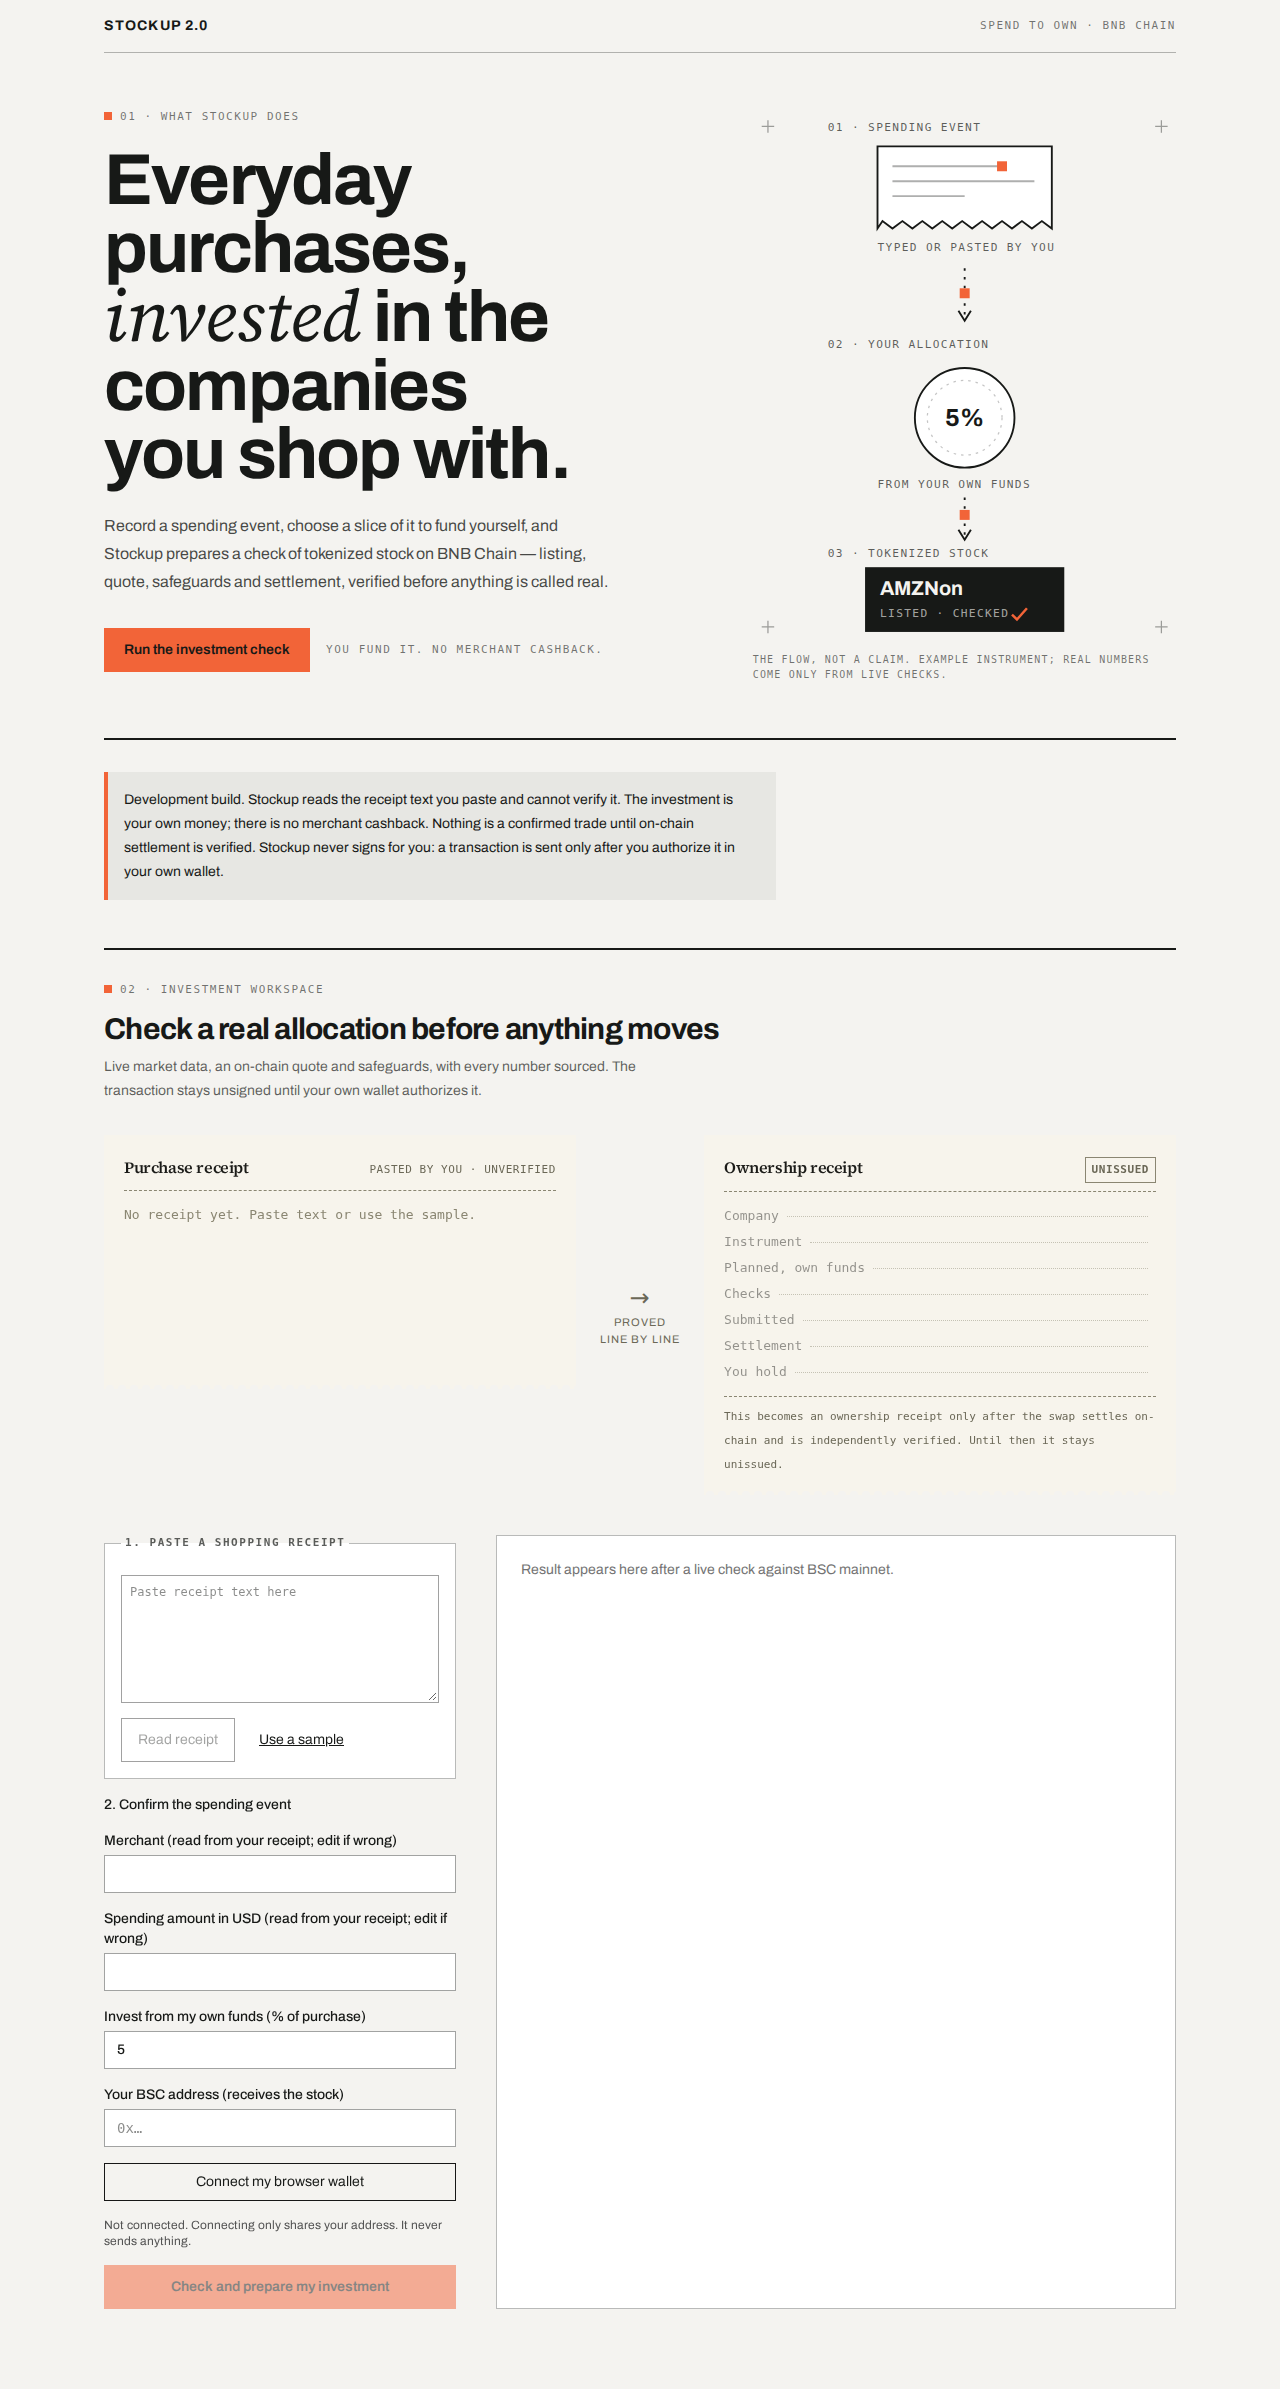
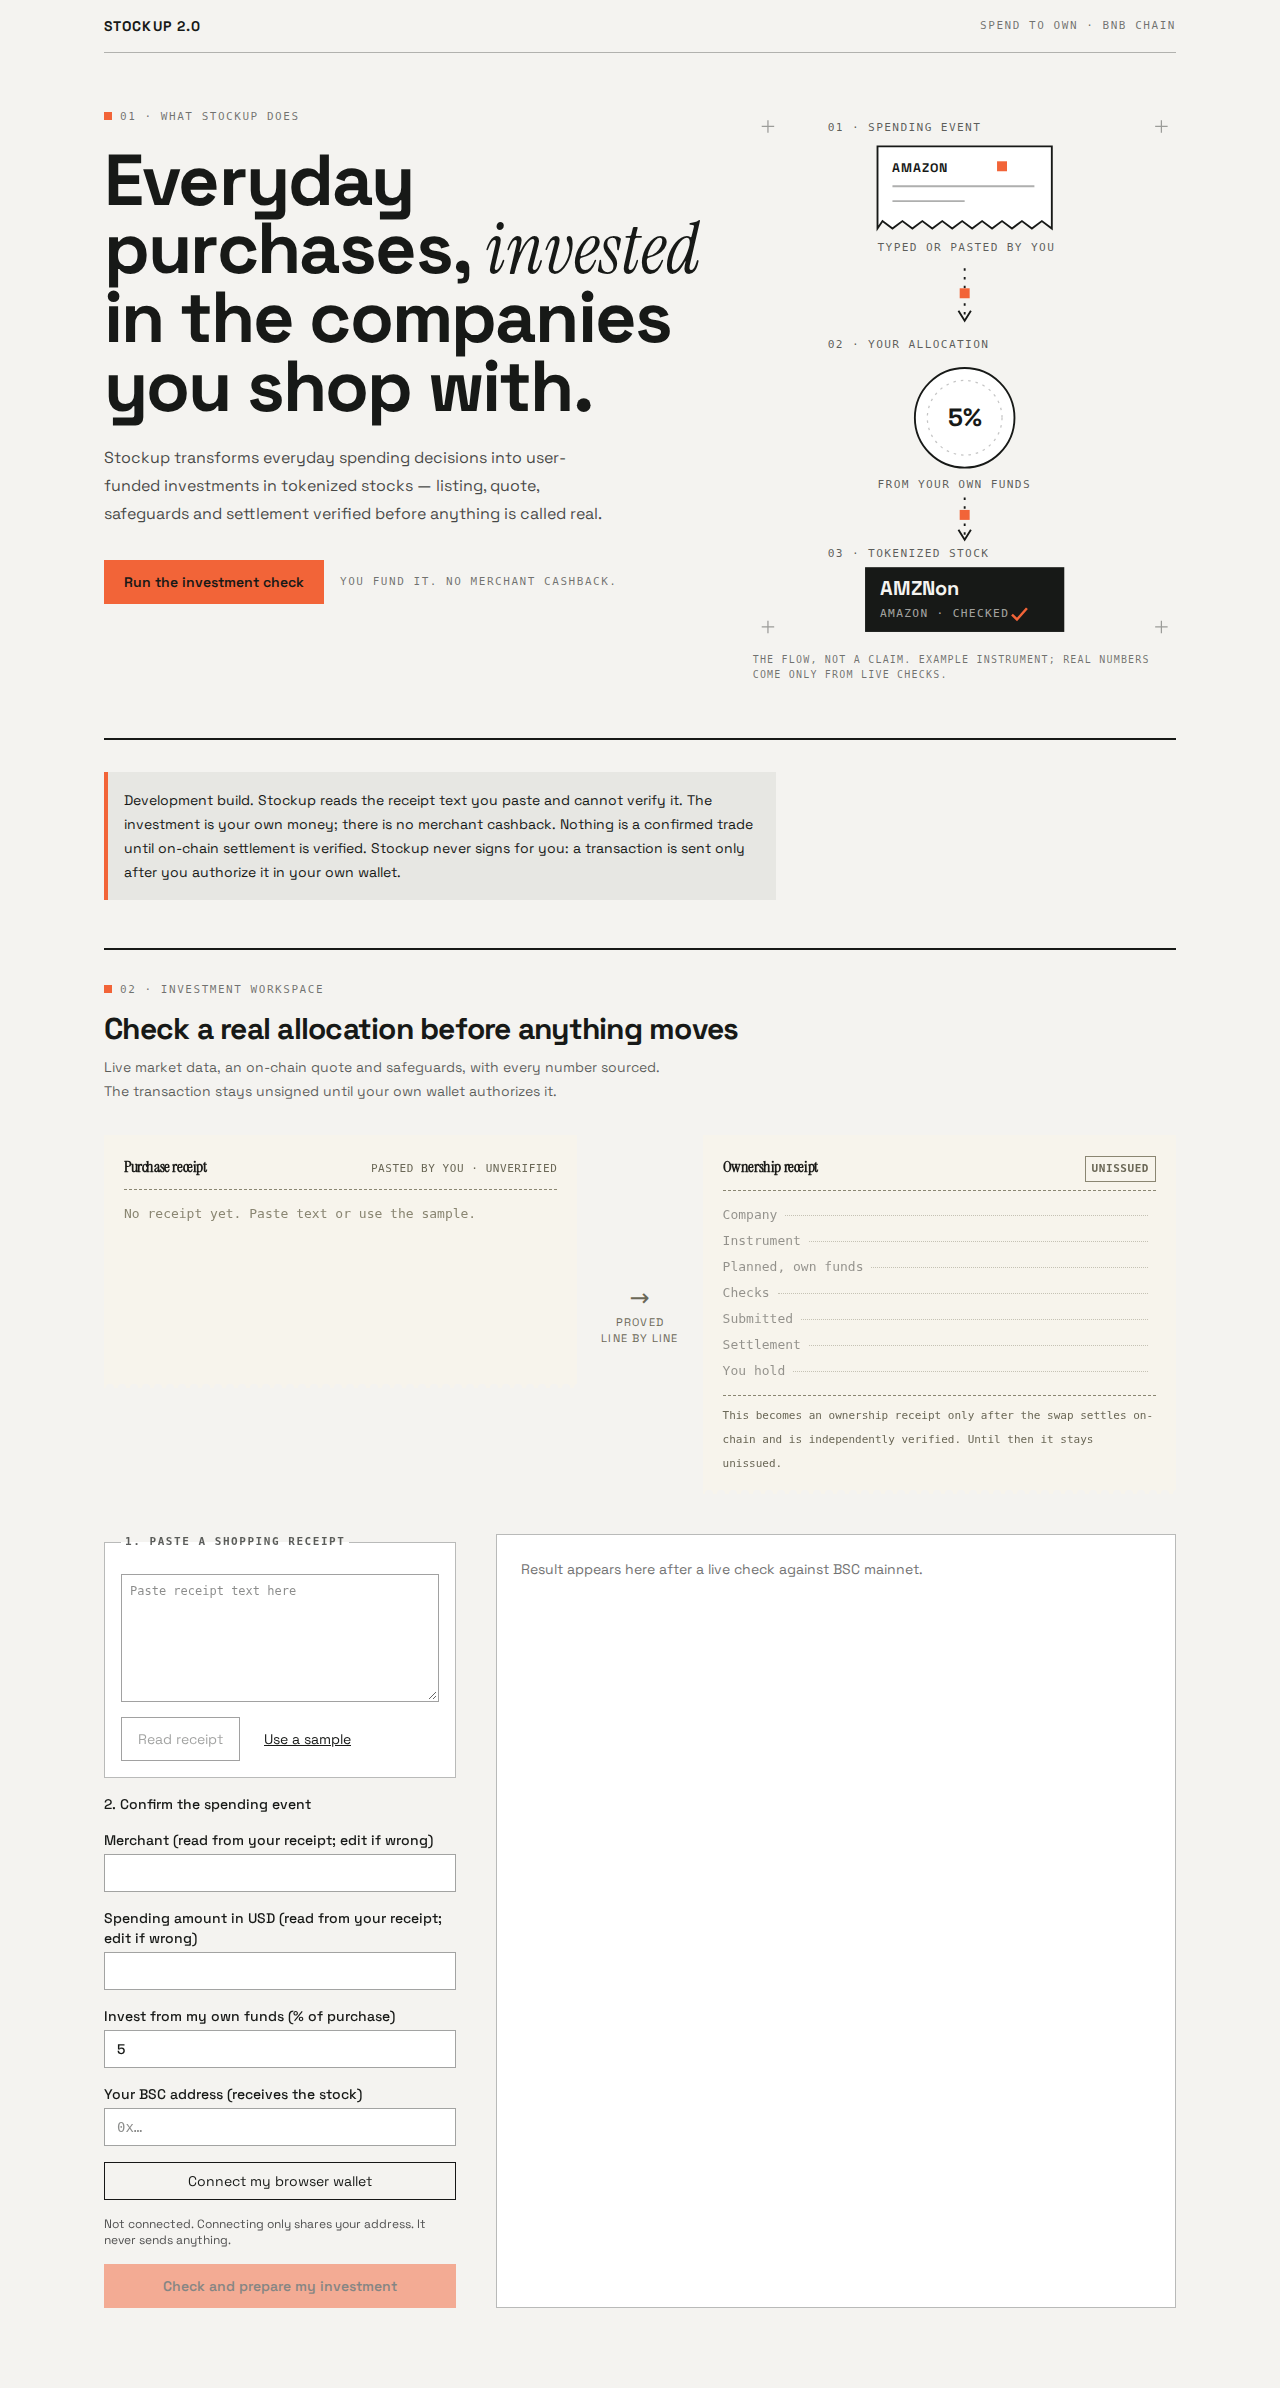
design probe v3: Space Grotesk + Instrument Serif exploration; explicit shopping->exposure link in diagram and copy; scope held to two surfaces; evidence refreshed; gates pass

diff --git a/src/components/hero-strip.tsx b/src/components/hero-strip.tsx
@@ -7,13 +7,14 @@ function Plus({ x, y }: { x: number; y: number }) {
 export function HeroStrip() {
   return (
     <figure>
-      <svg viewBox="0 0 340 430" role="img" aria-label="Diagram of the flow: a spending event you record becomes an allocation from your own funds, which buys tokenized stock on BNB Chain whose listing and settlement are checked against the chain." className="w-full">
+      <svg viewBox="0 0 340 430" role="img" aria-label="Diagram of the flow: a spending event at a company becomes an allocation from your own funds, which buys tokenized stock of that same company on BNB Chain, with the listing and settlement checked against the chain." className="w-full">
         <Plus x={12} y={14} /><Plus x={328} y={14} /><Plus x={12} y={416} /><Plus x={328} y={416} />
 
         {/* 01 — spending event */}
         <text x={60} y={18} fill="#171917" fillOpacity={0.7} fontFamily="var(--font-mono, monospace)" style={micro}>01 · SPENDING EVENT</text>
         <path d="M 100 30 H 240 V 96 L 232 90 L 224 96 L 216 90 L 208 96 L 200 90 L 192 96 L 184 90 L 176 96 L 168 90 L 160 96 L 152 90 L 144 96 L 136 90 L 128 96 L 120 90 L 112 96 L 104 90 L 100 96 Z" fill="#fff" stroke="#171917" strokeWidth={1.5} />
-        <path d="M 112 46 H 200 M 112 58 H 226 M 112 70 H 170" stroke="#171917" strokeOpacity={0.35} strokeWidth={1.5} />
+        <text x={112} y={51} fill="#171917" fontSize={10} fontWeight={700} letterSpacing="0.08em" fontFamily="var(--font-sans, sans-serif)">AMAZON</text>
+        <path d="M 112 62 H 226 M 112 74 H 170" stroke="#171917" strokeOpacity={0.35} strokeWidth={1.5} />
         <rect x={196} y={42} width={8} height={8} fill="#F26438" />
         <text x={100} y={114} fill="#171917" fillOpacity={0.7} fontFamily="var(--font-mono, monospace)" style={micro}>TYPED OR PASTED BY YOU</text>
 
@@ -38,7 +39,7 @@ export function HeroStrip() {
         <text x={60} y={360} fill="#171917" fillOpacity={0.7} fontFamily="var(--font-mono, monospace)" style={micro}>03 · TOKENIZED STOCK</text>
         <rect x={90} y={368} width={160} height={52} fill="#171917" />
         <text x={102} y={390} fill="#F4F3F0" fontSize={16} fontWeight={700} fontFamily="var(--font-sans, sans-serif)">AMZNon</text>
-        <text x={102} y={408} fill="#F4F3F0" fillOpacity={0.65} fontFamily="var(--font-mono, monospace)" style={micro}>LISTED · CHECKED</text>
+        <text x={102} y={408} fill="#F4F3F0" fillOpacity={0.65} fontFamily="var(--font-mono, monospace)" style={micro}>AMAZON · CHECKED</text>
         <path d="M 208 406 l 4 4 l 8 -9" fill="none" stroke="#F26438" strokeWidth={2} />
       </svg>
       <figcaption className="mt-2 font-mono text-[10px] uppercase tracking-[0.12em] text-ink/60">

diff --git a/src/app/page.tsx b/src/app/page.tsx
@@ -21,9 +21,8 @@ export default function Home() {
             in the companies you shop with.
           </h1>
           <p className="mt-6 max-w-lg text-base leading-7 text-ink/80">
-            Record a spending event, choose a slice of it to fund yourself, and Stockup prepares a check of
-            tokenized stock on BNB Chain — listing, quote, safeguards and settlement, verified before anything
-            is called real.
+            Stockup transforms everyday spending decisions into user-funded investments in tokenized stocks —
+            listing, quote, safeguards and settlement verified before anything is called real.
           </p>
           <div className="mt-8 flex flex-wrap items-center gap-4">
             <a href="#invest" className="bg-vermilion px-5 py-3 text-sm font-semibold text-ink">

diff --git a/src/app/globals.css b/src/app/globals.css
@@ -7,6 +7,7 @@
   --color-ink: #171917;
   --color-mist: #DADBD6;
   --color-vermilion: #F26438;
-  --font-sans: "Archivo Variable", ui-sans-serif, system-ui, "Helvetica Neue", Arial, sans-serif;
-  --font-serif: "Source Serif 4", Georgia, "Times New Roman", serif;
+  --color-white: #FFFFFF;
+  --font-sans: "Space Grotesk Variable", ui-sans-serif, system-ui, "Helvetica Neue", Arial, sans-serif;
+  --font-serif: "Instrument Serif", Georgia, "Times New Roman", serif;
 }

diff --git a/src/app/layout.tsx b/src/app/layout.tsx
@@ -1,7 +1,6 @@
-import '@fontsource-variable/archivo';
-import '@fontsource/source-serif-4/400.css';
-import '@fontsource/source-serif-4/400-italic.css';
-import '@fontsource/source-serif-4/600.css';
+import '@fontsource-variable/space-grotesk';
+import '@fontsource/instrument-serif/400.css';
+import '@fontsource/instrument-serif/400-italic.css';
 import './globals.css';
 
 export const metadata = { title: 'Stockup 2.0 — Spend to Own' };

diff --git a/docs/CURRENT_STATE.md b/docs/CURRENT_STATE.md
@@ -202,3 +202,11 @@ Last updated: 2026-10-10 ~18:50 UTC (VPS clock). Branch `dev/foundation`. Latest
 - AI-slop lint (playbook 4.5G): no gradients, no blue/purple defaults, no status pills, no fake live indicators, no fabricated metrics (diagram 5% = real default input; AMZNon labeled example), no card-everything.
 - Gates: typecheck OK; 86/86 tests; production build OK. No funds spent, nothing deployed, repo private, main untouched.
 - Reference provenance (playbook 4.5E), per DESIGN_REFERENCES.md: 01 grid/markers/numbered modules (not their brand/robot imagery); 04 product-as-hero staging adapted to the flow diagram (no scooter); 06 grotesk+serif pairing via OFL fonts (no ID Grotesk/Times binaries); 03 data readability as guardrail only (their fabricated stats rejected); 05 principle: dotted-leader + square-marker motif reusable site-wide (no purple 3D forms); 02 one-accent restraint (vermilion only); 07 poster type deliberately unused so far.
+
+## Design probe v3 (dev/design-probe, 2026-10-11 ~01:05 UTC VPS clock)
+- Scope held to exactly two surfaces: first fold + investment workspace. Everything else untouched.
+- Type exploration: Space Grotesk Variable + Instrument Serif (both SIL OFL, bundled via @fontsource). Previous variant (Archivo + Source Serif 4) remains on commit ff3f3a9 for comparison. Both font packages installed during exploration; the rejected one will be removed at lock-in.
+- Shopping<->exposure link made explicit: diagram receipt shows merchant AMAZON; token card reads "AMZNon / AMAZON · CHECKED"; fold sub-copy uses the owner's product sentence (spending decisions -> user-funded investments in tokenized stocks) plus the verification clause.
+- Constraints enforced: receipts are an input method, not the central motif (identity carried by the shopping->allocation->exposure diagram and copy); no gradients, no rounded-card stacks, no fabricated metrics, no decorative crypto graphics.
+- Gates: typecheck OK; 86/86 tests; build OK; full-page captures at 1280px/390px with zero horizontal overflow and no console/page errors.
+- STOP GATE: awaiting human approval. Not deployed; main untouched; repo private.
